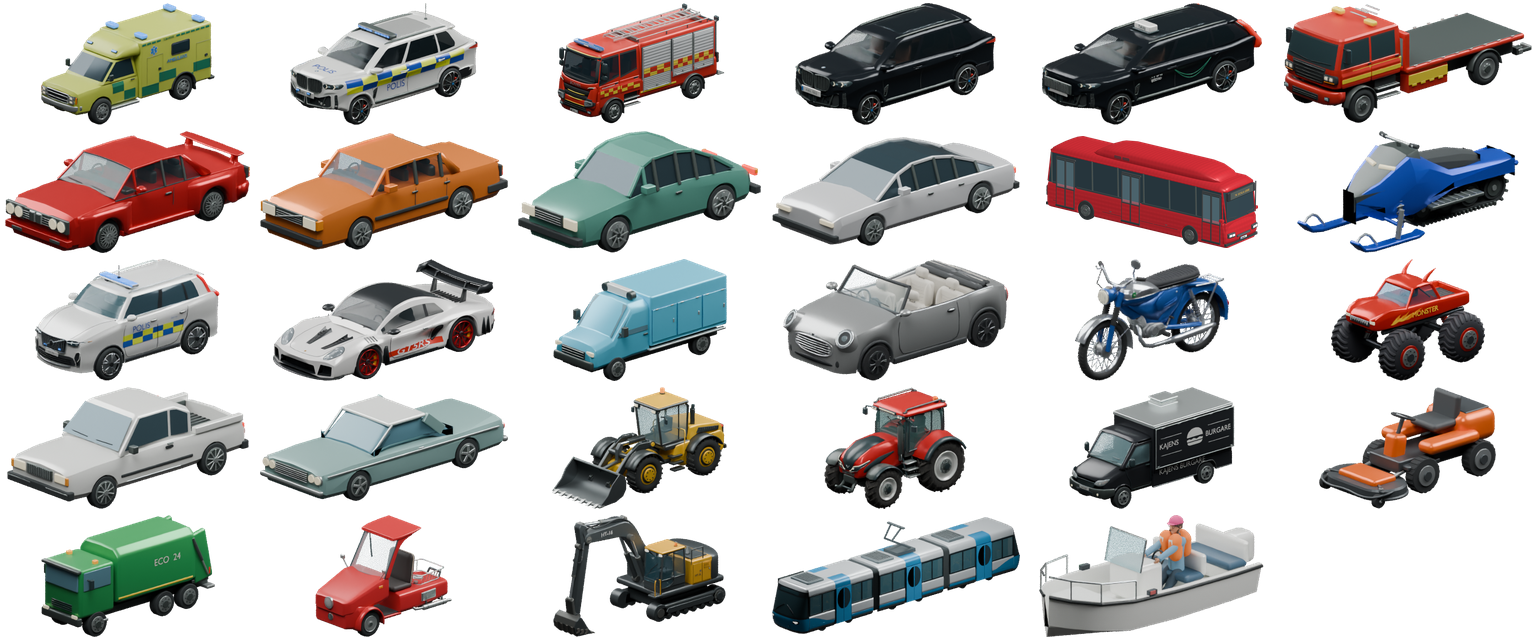
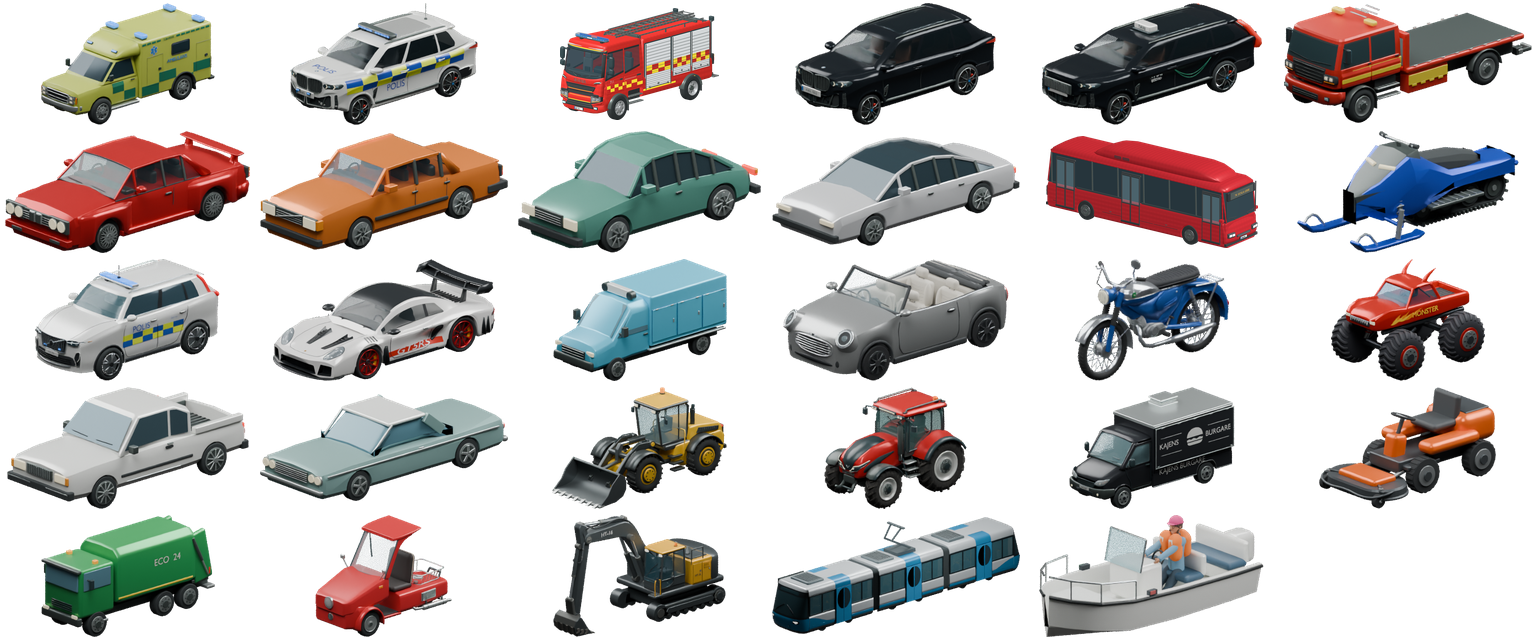
Show the refined fire engine in the vehicle menu

Changed region(s): [[0.3438, 0.0, 0.4688, 0.1875]]

diff --git a/docs/Arbetslista.md b/docs/Arbetslista.md
@@ -43,7 +43,7 @@ Listan innehåller 100 jobb. En tom ruta är öppen. En punkt bockas av när bet
 
 ## Modeller, människor och stadsliv
 
-- [ ] 31. Betygsätt modeller mot jämförbara bilder av silhuett, proportioner, material, interiör och funktion. Brandbilen har nu upphöjda Scania-bokstäver och bredare gula lister på grillen, granskade i rendering från spelmodellen. Bakpartiet har två runda röda reflexer vid luckornas nedre ytterhörn, kontrollerade i Godot mot bakifrånfotot. Blinkers-, broms- och backljusglasens horisontella räfflor syns i närbild. Bakluckorna har vågräta draghandtag. Frontmärket SKANIA och främre registreringsskylten med blått landsfält kontrollerades i Godot.
+- [ ] 31. Betygsätt modeller mot jämförbara bilder av silhuett, proportioner, material, interiör och funktion. Brandbilen har nu upphöjda Scania-bokstäver och bredare gula lister på grillen, granskade i rendering från spelmodellen. Bakpartiet har två runda röda reflexer vid luckornas nedre ytterhörn, kontrollerade i Godot mot bakifrånfotot. Blinkers-, broms- och backljusglasens horisontella räfflor syns i närbild. Bakluckorna har vågräta draghandtag. Frontmärket SKANIA och främre registreringsskylten med blått landsfält kontrollerades i Godot. En ny rendering av brandbilen granskades i fordonsmenyn.
   - **Brandbilens front, 78/100** i spelvyn snett framifrån. Hyttaket är rundat, de två grillöppningarna har indragna sexkantsgaller och lyktorna sitter i urtag i stötfångaren. Den röda lacken har mjukare högdagrar. Lampglasen har kantigare ytterhörn och en synlig orange list under projektorerna. Ett veck löper runt stötfångarens hörn under lyktorna. Vindrutans nedre list har gjorts smalare och båda torkarbladen sveper över glaset vid nederbörd och återgår till viloläget när det klarnar. Larmterminalen är mindre och mätarkåpan sluttar mot vindrutan. Ratt och förarplats sitter till vänster. Axel och Alma når båda rattgreppen och förarkameran visar hastighetsmätarens visare över ratten. Strålkastarnas inre optik och den förenklade instrumentbrädan avviker fortfarande från Scania-bilderna.
   - **Brandbilens sidoprofil, 75/100** vid jämförelse med Scania-bilderna. Dubbelhytten, de två axlarna, instegen och de tre jalusierna känns igen. Den korta mittluckan är nu centrerad över bakaxeln med djupare luckor både framför och bakom hjulet. Den främre luckan kunde fortfarande öppnas och stängas i Godot. Reflexrutorna har samma bredd på de tre luckorna. Båda framdörrarna har fordonsnumret 711 och bakdörrarna är märkta RÄDDNINGSTJÄNST. Fälgarna har silvergrå lack, tio hjulbultar och välvda navkåpor på framaxeln. På bakaxeln ligger fälgcentrum 10,5 cm längre in än fram. Skålens djup syns snett bakifrån. Uppmätt i Godot är hjulbasen 4,52 m och totallängden 7,46 m. Referensbilen DEN530 är 8,10 m lång, alltså 64 cm längre. Originalets axelavstånd återstår att verifiera före en ändring av proportionerna. [Objektbeskrivning för Scania P380 DEN530](https://www.netauktion.se/auktion/produkt/brandbil-scania-p380-2008-den530)
   - För en bedömning av hela brandbilen återstår att väga in hytten från förarplatsen och bakpartiet.
